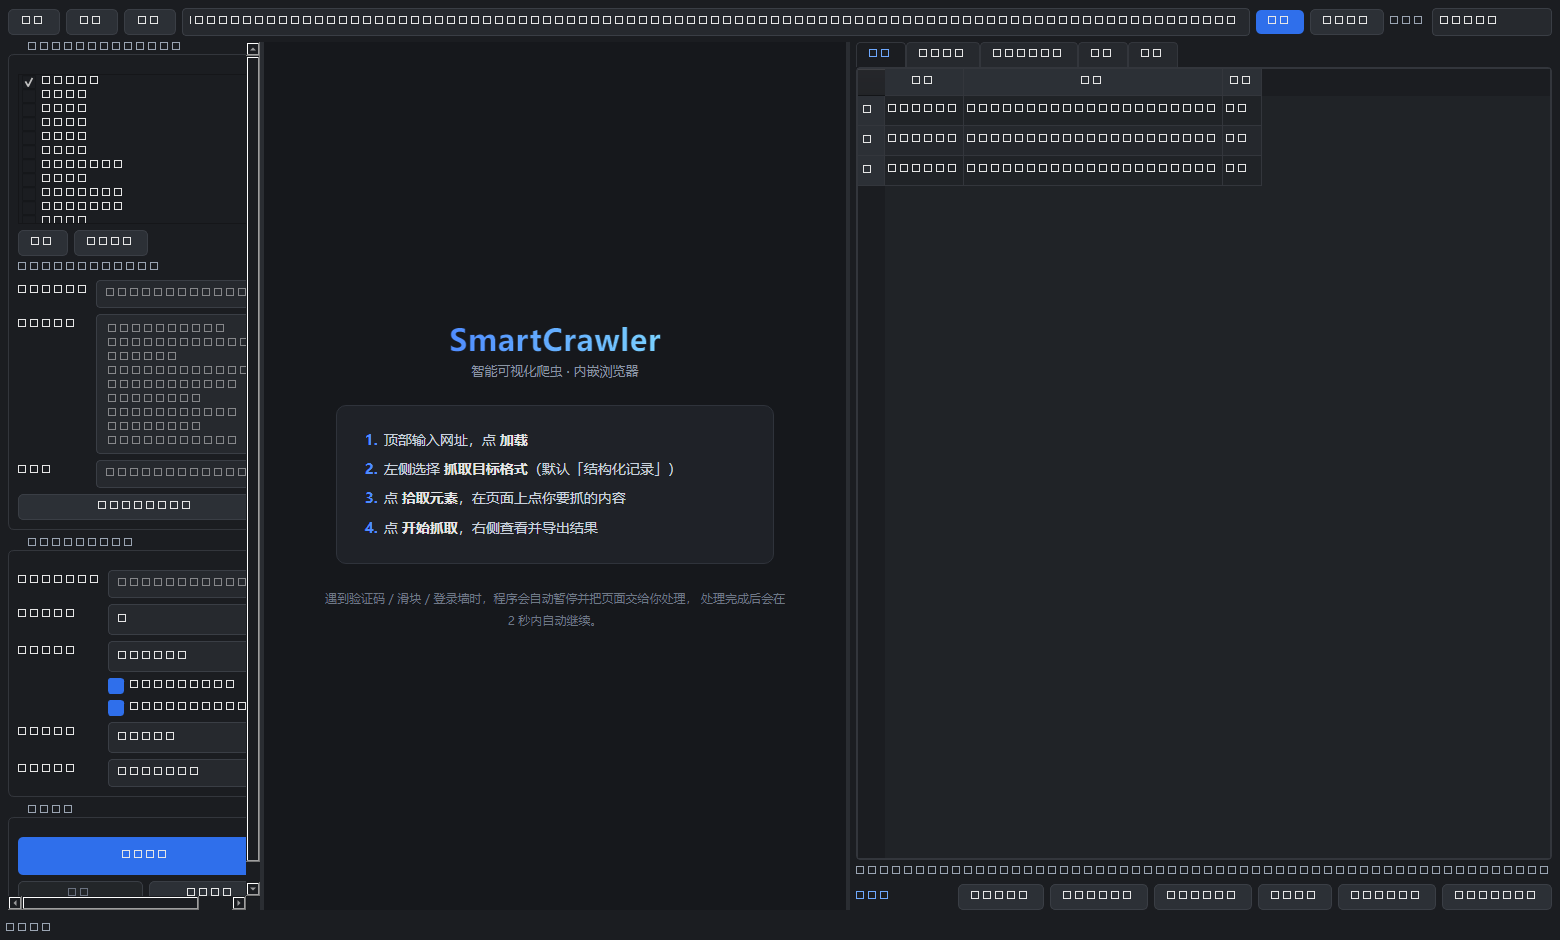
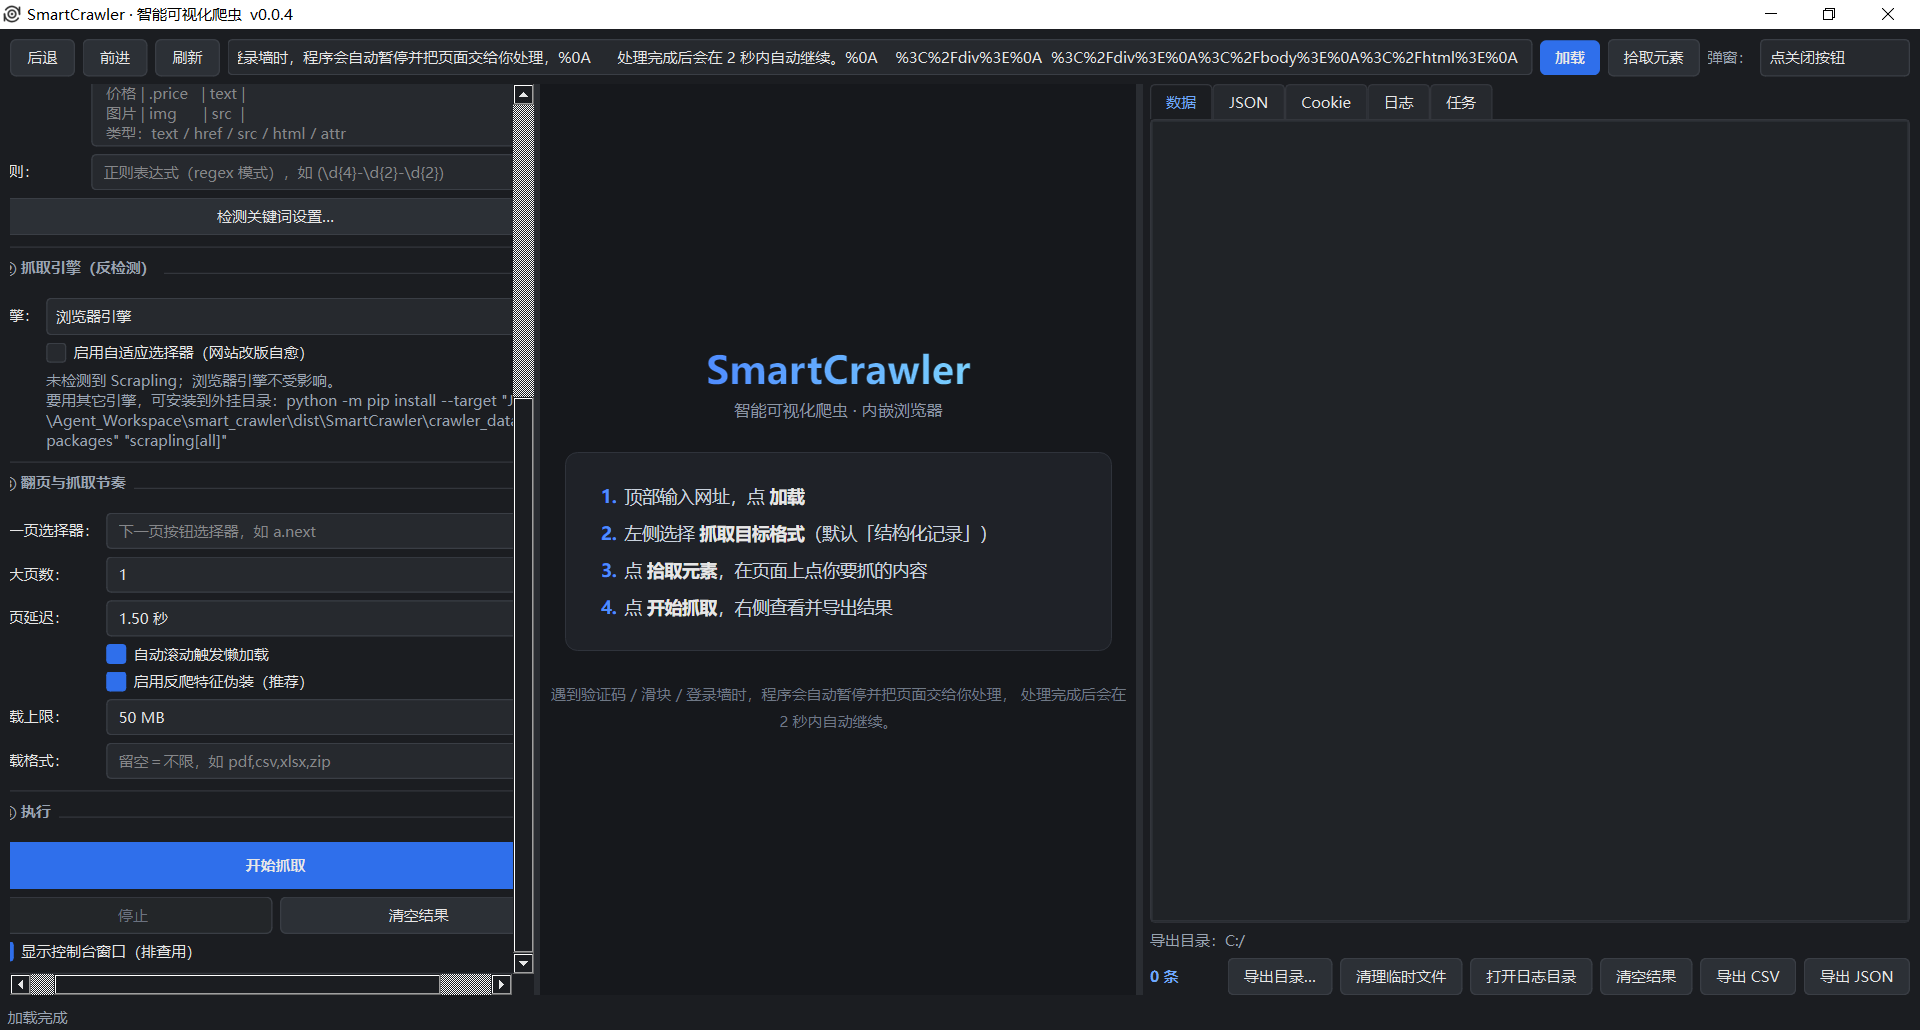
docs: 源码包只含代码与资源，图标改为仓库资源
新增 assets/appicon.ico 作为图标权威副本并随源码包分发；README 源码包体积更正为约 203 KB；更新界面截图。

diff --git a/README.md b/README.md
@@ -71,7 +71,7 @@
 | 项目 | 说明 |
 | --- | --- |
 | 文件名 | `smart_crawler-v0.0.4.zip` |
-| 大小 | 约 180 KB |
+| 大小 | 约 203 KB |
 | 内容 | 完整源码（配置 / 核心 / 界面 / 工具 / 测试 / 文档），**不含**虚拟环境与运行时数据 |
 
 解压后按「[安装](#安装)」章节装依赖，再运行 `python main.py`。
@@ -626,12 +626,13 @@ Windows 上有**两条互不相干**的图标路径，很容易混为一谈：
 程序的实际取图顺序（见 `utils/appicon.py`）：
 
 1. `_internal\appicon.ico`（打包时随 `datas` 分发）
-2. 源码根目录 / `assets\` / `packaging\` 下的 `appicon.ico` 或 `.png`
+2. 源码根目录 / `assets\`（权威副本，随源码包分发）/ `packaging\`（本机备用）
+   下的 `appicon.ico` 或 `.png`
 3. exe 同级目录下的 `appicon.ico`
 4. 都没有 → 用 QPainter **现画**一个（矢量图形，不依赖字体）
 
 > 图标文件只有一张 256×256 时，标题栏要的 16×16 只能由系统缩放，会糊。
-> 所以 `packaging\appicon.ico` 里准备了 **16 / 32 / 48 / 64 / 256 五个原生尺寸**
+> 所以 `assets\appicon.ico` 里准备了 **16 / 32 / 48 / 64 / 256 五个原生尺寸**
 > （24 与 128 由 Windows 就近取用，都是**缩小**，不会放大糊掉）。
 > 重新生成用 `packaging\make_icon.py`，它会识别形如 `xxx16x16.ico`
 > 的按尺寸导出文件并原样取用对应的帧。
@@ -866,6 +867,9 @@ smart_crawler/
 │   ├── js_runner.py            runJavaScript 封装（限流 + 同步等待）
 │   ├── appicon.py              窗口图标（优先用 ico 文件，缺失时矢量现画）
 │   └── console.py              控制台窗口显示 / 隐藏（Win32 ShowWindow）
+│
+├── assets/                     随源码分发的资源
+│   └── appicon.ico             窗口 / exe 图标（16/32/48/64/256 五个原生尺寸）
 │
 ├── docs/
 │   └── screenshot.png          界面截图
